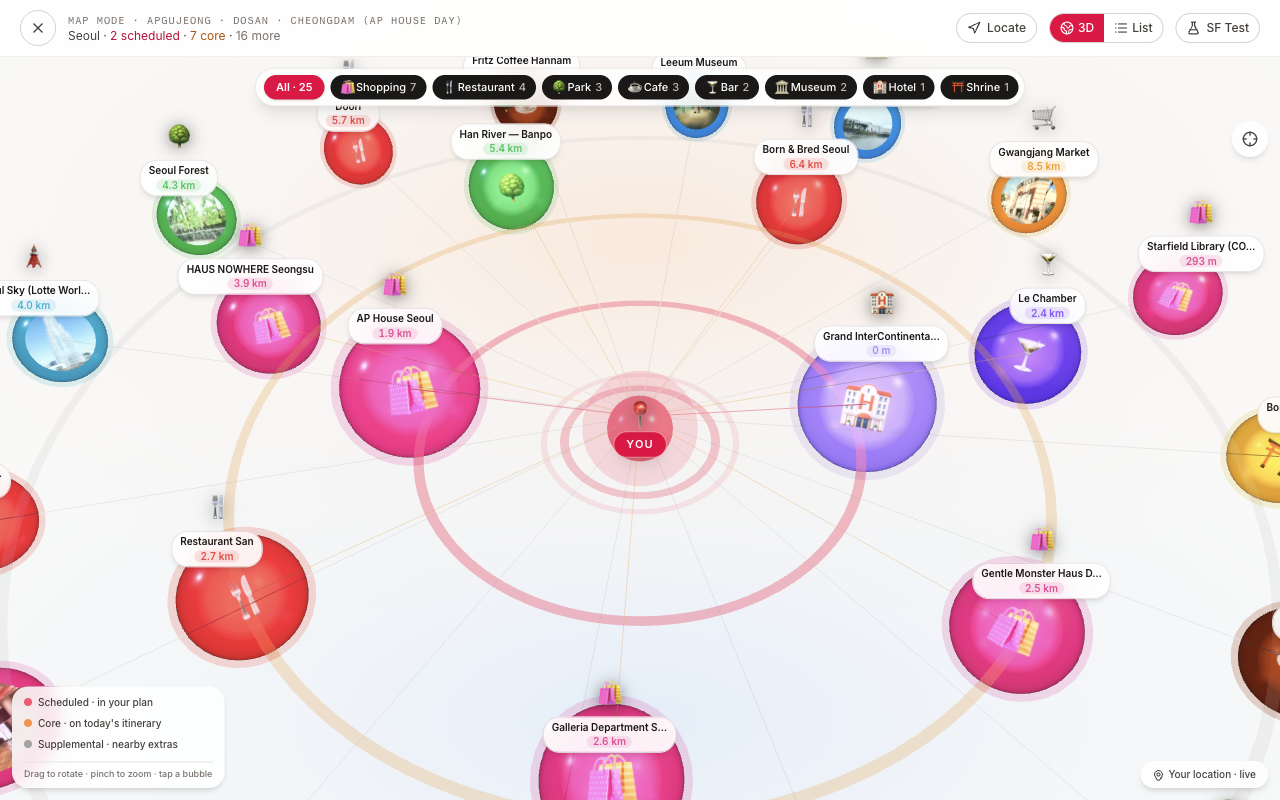
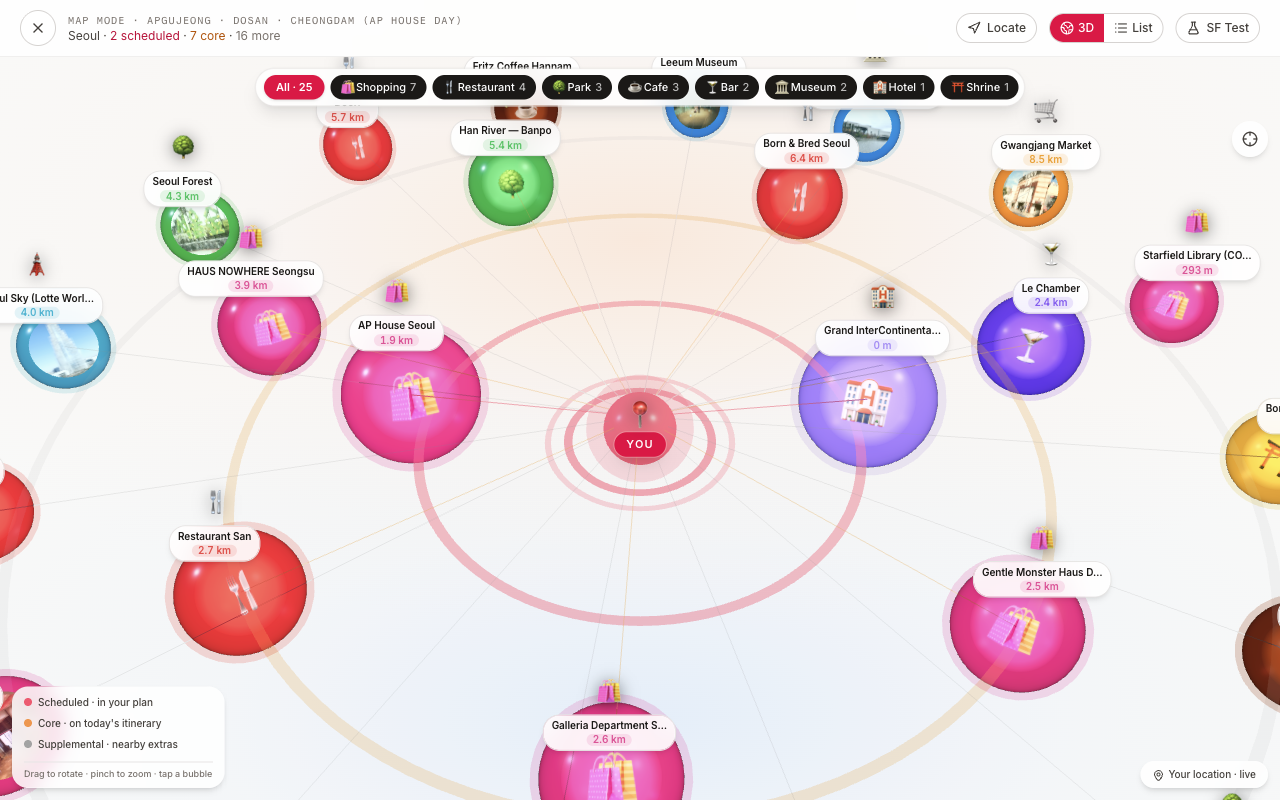
fix(korea): bullet-proof PWA update flow + caching + optimization pass (#289)
Production was still serving stale Map Mode to users with an older
service worker installed. Three reinforcing fixes plus an app-wide
optimization pass.

PWA update flow (the actual stale-cache fix)

- frontend/src/lib/serviceWorker.ts: full rewrite
  - On register, look for an already-waiting worker → post SKIP_WAITING
  - Watch for `updatefound` → on installed-but-waiting, post SKIP_WAITING
  - Listen for `controllerchange` → one-shot reload so the page loads
    under the new SW + new asset-bundle hashes (no manual refresh)
  - Poll registration.update() every 5 min so long-lived tabs catch
    new deploys without a session restart
- frontend/public/sw.js
  - Bump CACHE_VERSION v3 → v4 so old caches are cleared on activate
  - Listen for SKIP_WAITING message from the page so client-side update
    flow can hand control to the new SW immediately
  - Stop intercepting /sw.js fetches so the update path is never cached

Cache-Control hygiene

- server/app.ts
  - /sw.js explicitly served with `no-cache, no-store, must-revalidate`
    + `Service-Worker-Allowed: /` so the browser always sees the latest
    SW byte-stream and detects updates
  - /assets/* (content-hashed bundles) → `public, max-age=31536000,
    immutable` for aggressive HTTP caching of bundles
  - SPA HTML still `no-cache, no-store, must-revalidate` so the entry
    point always points at the latest bundle hashes

Bundle optimization pass

- frontend/vite.config.ts: explicit manualChunks for three.js + the
[…]

diff --git a/frontend/src/lib/serviceWorker.ts b/frontend/src/lib/serviceWorker.ts
@@ -1,36 +1,91 @@
-const SERVICE_WORKER_PATH = '/sw.js'
+// Service worker registration + auto-update flow.
+//
+// We register `/sw.js` in production, then:
+//   1. Watch for a NEW service worker that is `waiting` (already downloaded,
+//      not yet activated because the old SW is still controlling clients).
+//   2. Send it a `SKIP_WAITING` message so it takes over immediately.
+//   3. Listen for `controllerchange` — fired when the new SW becomes the
+//      active controller. Force a one-shot reload so the page is served by
+//      the new SW + new asset bundle hashes.
+//   4. Poll `registration.update()` every five minutes so a long-running tab
+//      eventually picks up new deploys without a manual reload.
+//
+// Without this flow, deploying a new SW + new JS bundles leaves users on the
+// old bundles indefinitely (a classic PWA staleness trap).
+
+const SERVICE_WORKER_PATH = "/sw.js"
+const UPDATE_INTERVAL_MS = 5 * 60 * 1000
 
 interface ServiceWorkerEnv {
   PROD?: boolean
 }
 
 interface ServiceWorkerNavigator {
-  serviceWorker?: {
-    register: (scriptURL: string) => Promise<unknown>
-  }
+  serviceWorker?: ServiceWorkerContainer
 }
 
 interface ServiceWorkerWindow {
-  addEventListener: Window['addEventListener']
+  addEventListener: Window["addEventListener"]
+  location?: { reload: () => void }
 }
 
 export function registerServiceWorker(
   env: ServiceWorkerEnv = import.meta.env,
-  navigatorRef: ServiceWorkerNavigator = navigator,
-  windowRef: ServiceWorkerWindow = window
+  navigatorRef: ServiceWorkerNavigator = navigator as unknown as ServiceWorkerNavigator,
+  windowRef: ServiceWorkerWindow = window,
 ): boolean {
-  if (!env.PROD || !navigatorRef.serviceWorker) {
-    return false
-  }
+  if (!env.PROD || !navigatorRef.serviceWorker) return false
+  const swContainer = navigatorRef.serviceWorker
+  if (!swContainer) return false
+
+  // Reload on controller change. We guard against an infinite loop when the
+  // page is first loaded under a SW (initial controller change is expected
+  // when the page goes from "no SW" → "new SW").
+  let reloaded = false
+  swContainer.addEventListener("controllerchange", () => {
+    if (reloaded) return
+    reloaded = true
+    try {
+      windowRef.location?.reload()
+    } catch {
+      /* no-op in test envs */
+    }
+  })
 
   windowRef.addEventListener(
-    'load',
+    "load",
     () => {
-      navigatorRef.serviceWorker?.register(SERVICE_WORKER_PATH).catch(() => {
-        // Offline support is additive; registration failure should not block the app.
-      })
+      swContainer
+        .register(SERVICE_WORKER_PATH)
+        .then((registration) => {
+          // If there's already a waiting worker at register time, activate it.
+          if (registration.waiting) {
+            registration.waiting.postMessage({ type: "SKIP_WAITING" })
+          }
+          // When an update is found, watch the installing worker for its
+          // state transitions. Once it's "installed" and there's an existing
+          // controller (the old SW), tell it to skip waiting.
+          registration.addEventListener("updatefound", () => {
+            const next = registration.installing
+            if (!next) return
+            next.addEventListener("statechange", () => {
+              if (next.state === "installed" && swContainer.controller) {
+                next.postMessage({ type: "SKIP_WAITING" })
+              }
+            })
+          })
+          // Periodic update check so long-lived tabs eventually update.
+          setInterval(() => {
+            registration.update().catch(() => {
+              /* offline / network errors are fine */
+            })
+          }, UPDATE_INTERVAL_MS)
+        })
+        .catch(() => {
+          // Offline support is additive; registration failure should not block the app.
+        })
     },
-    { once: true }
+    { once: true },
   )
 
   return true

diff --git a/frontend/src/lib/__tests__/serviceWorker.test.ts b/frontend/src/lib/__tests__/serviceWorker.test.ts
@@ -4,6 +4,24 @@ import { resolve } from 'node:path'
 import { describe, expect, it, vi } from 'vitest'
 import { registerServiceWorker } from '../serviceWorker'
 
+// Stub container shape matching ServiceWorkerContainer for type compat.
+function makeContainer(register: ReturnType<typeof vi.fn>) {
+  return {
+    register,
+    addEventListener: vi.fn(),
+    removeEventListener: vi.fn(),
+    controller: null,
+    ready: Promise.resolve({} as ServiceWorkerRegistration),
+    startMessages: vi.fn(),
+    oncontrollerchange: null,
+    onmessage: null,
+    onmessageerror: null,
+    getRegistration: vi.fn(),
+    getRegistrations: vi.fn(),
+    dispatchEvent: vi.fn(),
+  } as unknown as ServiceWorkerContainer
+}
+
 describe('service worker registration', () => {
   it('does not register outside production builds', () => {
     const register = vi.fn().mockResolvedValue(undefined)
@@ -12,9 +30,9 @@ describe('service worker registration', () => {
     expect(
       registerServiceWorker(
         { PROD: false },
-        { serviceWorker: { register } },
-        { addEventListener: addEventListener as Window['addEventListener'] }
-      )
+        { serviceWorker: makeContainer(register) },
+        { addEventListener: addEventListener as Window['addEventListener'] },
+      ),
     ).toBe(false)
 
     expect(addEventListener).not.toHaveBeenCalled()
@@ -22,7 +40,12 @@ describe('service worker registration', () => {
   })
 
   it('registers the worker after window load in production', async () => {
-    const register = vi.fn().mockResolvedValue(undefined)
+    const register = vi.fn().mockResolvedValue({
+      waiting: null,
+      installing: null,
+      addEventListener: vi.fn(),
+      update: vi.fn().mockResolvedValue(undefined),
+    })
     let loadListener: EventListener | null = null
     const addEventListener = vi.fn((type: string, listener: EventListener) => {
       if (type === 'load') {
@@ -33,9 +56,9 @@ describe('service worker registration', () => {
     expect(
       registerServiceWorker(
         { PROD: true },
-        { serviceWorker: { register } },
-        { addEventListener: addEventListener as Window['addEventListener'] }
-      )
+        { serviceWorker: makeContainer(register) },
+        { addEventListener: addEventListener as Window['addEventListener'] },
+      ),
     ).toBe(true)
 
     expect(addEventListener).toHaveBeenCalledWith('load', expect.any(Function), { once: true })
@@ -52,7 +75,7 @@ describe('service worker registration', () => {
   it('ships a conservative same-origin offline cache worker', () => {
     const worker = readFileSync(resolve(process.cwd(), 'public/sw.js'), 'utf8')
 
-    expect(worker).toContain("CACHE_VERSION = 'breathflow-offline-v1'")
+    expect(worker).toMatch(/CACHE_VERSION = 'breathflow-offline-v\d+'/)
     expect(worker).toContain("'/breathwork'")
     expect(worker).toContain("'/breathwork/progress'")
     expect(worker).toContain("'/breathwork/session?technique=cyclic_sighing&rounds=30'")
@@ -66,5 +89,7 @@ describe('service worker registration', () => {
     expect(worker).toContain('catch(() => undefined)')
     expect(worker).toContain('void cachePutSafe(cache, request, response.clone())')
     expect(worker).toContain('self.skipWaiting()')
+    // New: SKIP_WAITING message bridge so client-side auto-update works.
+    expect(worker).toContain('SKIP_WAITING')
   })
 })

diff --git a/server/app.ts b/server/app.ts
@@ -148,7 +148,31 @@ app.get("/health", (c) =>
 
 const distPath = resolve(import.meta.dir, "../frontend/dist");
 
-// Serve static assets
+// `/sw.js` MUST be served fresh on every request — the browser only updates
+// the service worker when it detects a byte-difference in the SW script, so
+// a cached SW means deploys never roll out. We route it explicitly before the
+// static-asset middleware so we can set our own headers.
+app.get("/sw.js", async (c) => {
+  const file = Bun.file(join(distPath, "sw.js"));
+  c.header("Cache-Control", "no-cache, no-store, must-revalidate");
+  c.header("Pragma", "no-cache");
+  c.header("Service-Worker-Allowed", "/");
+  c.header("Content-Type", "application/javascript; charset=utf-8");
+  return c.body(await file.text());
+});
+
+// Serve static assets — content-hashed bundles get long-cache so the new
+// bundle hashes (the only files referenced by the fresh index.html) are
+// immutable + browser-cached, while the entry HTML stays no-cache below.
+app.use(
+  "/assets/*",
+  serveStatic({
+    root: distPath,
+    onFound: (_, c) => {
+      c.header("Cache-Control", "public, max-age=31536000, immutable");
+    },
+  }),
+);
 app.use("*", serveStatic({ root: distPath }));
 
 // Serve index.html for all other routes (SPA fallback). The HTML itself must

diff --git a/frontend/public/sw.js b/frontend/public/sw.js
@@ -1,4 +1,4 @@
-const CACHE_VERSION = 'breathflow-offline-v3'
+const CACHE_VERSION = 'breathflow-offline-v4'
 const RUNTIME_CACHE = `${CACHE_VERSION}-runtime`
 const KOREA_API_CACHE = `${CACHE_VERSION}-korea-api`
 const APP_SHELL = [
@@ -40,6 +40,16 @@ self.addEventListener('install', (event) => {
   event.waitUntil(
     cacheAppShell().then(() => self.skipWaiting())
   )
+})
+
+// Allow the client (registerServiceWorker.ts) to tell us to skip waiting.
+// This is the second leg of the auto-update flow: when a new SW is installed
+// and waiting, the client posts SKIP_WAITING and we hand control to the new
+// SW immediately. The `controllerchange` listener on the client then reloads.
+self.addEventListener('message', (event) => {
+  if (event.data && event.data.type === 'SKIP_WAITING') {
+    self.skipWaiting()
+  }
 })
 
 self.addEventListener('activate', (event) => {
@@ -133,6 +143,12 @@ self.addEventListener('fetch', (event) => {
 
   const url = new URL(request.url)
   if (url.origin !== self.location.origin) {
+    return
+  }
+
+  // Never intercept the SW script itself — the browser uses a special update
+  // path that bypasses the existing SW, but we belt-and-suspender it.
+  if (url.pathname === '/sw.js') {
     return
   }
 

diff --git a/frontend/vite.config.ts b/frontend/vite.config.ts
@@ -31,6 +31,18 @@ export default defineConfig({
           if (id.includes('lucide-react')) {
             return 'icons';
           }
+          // Three.js is heavy and only used by /korea Map Mode. Splitting it
+          // into its own chunk keeps the rest of the app's bundles tight and
+          // lets the Map Mode lazy-import pull just the renderer.
+          if (id.includes('/node_modules/three/')) {
+            return 'three';
+          }
+          // Korea route's static data + components — keep them together so
+          // browsing /korea is one cohesive chunk download instead of many
+          // tiny waterfall requests.
+          if (id.includes('/pages/Korea/MapMode')) {
+            return 'korea-map';
+          }
         }
       }
     }